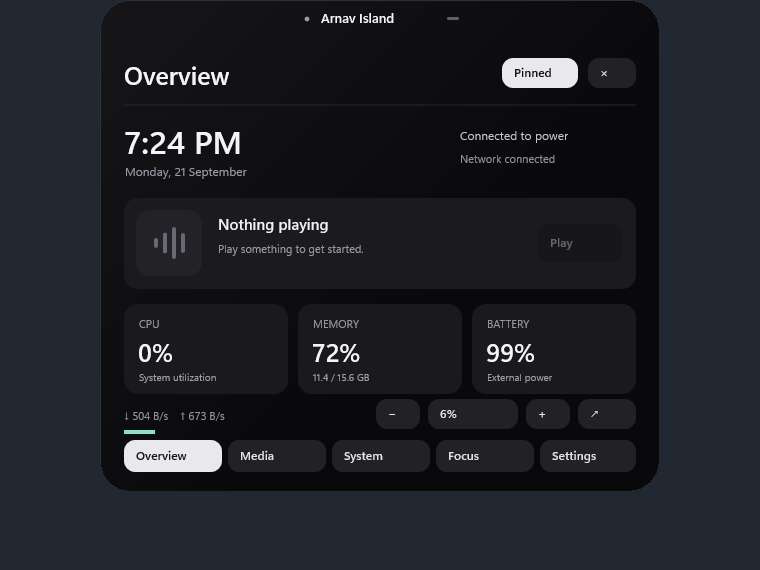
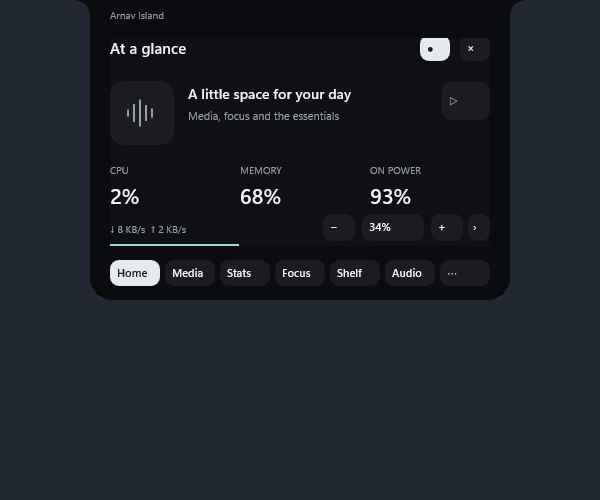
Publish Arnav Island 0.3 preview documentation and reviewed native UI

diff --git a/QUICK_START.md b/QUICK_START.md
@@ -1,13 +1,16 @@
-# Arnav Island quick start
+# Quick start
 
-Windows 11, x64. Extract the ZIP and run ArnavIsland.exe. No installer, account, admin privileges or runtime download is required. This is an unsigned preview; ordinary Windows reputation checks can appear. Do not disable Windows security.
+1. Extract the ZIP into a folder you intend to keep. Run **ArnavIsland.exe**.
+2. Hover over the top-center island to open it. Click the dot to pin; × or Escape closes it. Right-click opens the tray menu.
+3. Home shows media, CPU, memory, battery and volume. Media uses Windows media sessions; Stats provides real OS counters; Focus includes 25-minute focus, 5-minute break and stopwatch.
+4. Drag a file or text onto the island to open Shelf. Drag a shelf row back out. Transfers are copy-only. Scroll to reach additional rows; Clear forgets references. Quit clears the shelf.
+5. Audio lists active Windows outputs. Choose one to switch, or use Windows sound settings. Direct switching is optional compatibility behavior, configurable under Preferences → Activities.
+6. The **⋯** view is Preferences. Click the group selector to cycle Behavior, Appearance, Motion, Activities and Advanced. Changes save locally.
+7. Enable or disable **Start at sign-in** in Behavior. This registers the current executable path for your Windows account. If you move the app, toggle it off/on from the new location. The developer-installed copy already has this enabled.
+8. Tab/Shift+Tab select controls after activation; Enter/Space activate; Escape collapses. Animation Lab is available from the right-click menu or Advanced preferences.
 
-Hover: open after a short delay. Leave: close after 650 ms. Pin: keep open. Click the collapsed pill: open and pin. Click the header: collapse. Right-click: menu and Exit. Scroll: adjust system volume. Drag the header: test elastic movement. Click an expanded control to use it; Tab / Shift+Tab and Enter / Space navigate and invoke controls after activation; Escape closes.
+Settings: `%LOCALAPPDATA%\ArnavIsland\settings.nexus`. Logs: same folder, `events.log`. No user media text, file paths or clipboard content are logged. The legacy Nexus settings are migrated by copy.
 
-Overview, Media, System, Focus and Settings are available in the bottom navigation. The Media layout button cycles Auto / Music / Video. Some browsers do not identify music versus video correctly, so manual selection is available. Thumbnails, timeline and transport controls depend on what the player shares with Windows.
+Artwork appears only when Windows media metadata provides it. Use Media's Auto/Music/Video selector for ambiguous browser sessions. Play/previous/next are disabled when the player does not advertise the capability. The app does not suppress the normal Windows volume flyout.
 
-Settings save automatically to %LOCALAPPDATA%\ArnavIsland\settings.nexus. Existing NexusIsland preferences migrate by copy on first launch. Old files are not deleted. Logs contain diagnostic event names, never media titles or artwork. Open or clear logs from the right-click menu. Timers are in-memory and do not survive exiting the app.
-
-There is no automatic startup, updater, telemetry upload, screen recording in normal use, arbitrary plugin loading or driver. The System view reports supported OS counters, not guessed GPU temperatures or fans. Monitoring sleeps while the relevant views are closed.
-
-Preview limits: custom island controls do not yet expose a complete screen-reader tree; high contrast, text scaling, mixed-DPI displays, high refresh, GPU-loss recovery and long-duration stability need further validation. A small conservative input envelope exists while the body is moving. Use the tray menu to exit if anything looks wrong; this app does not patch or inject into Windows.
+Remove sign-in startup before deleting the portable folder. No service, driver or Explorer modification is installed.

diff --git a/RELEASE_NOTES.md b/RELEASE_NOTES.md
@@ -1,20 +1,24 @@
-# Arnav Island v0.2.0-preview.1
+# Arnav Island v0.3.0-preview.1
 
-A redesigned native island with five clean views, configurable hover opening, real system statistics, music/video layouts with Windows media artwork, volume/mute controls and focus timers.
+Smaller, quieter, connected to the display edge.
 
-Download the Windows x64 ZIP, extract it, and run ArnavIsland.exe. No installer or account is required. The executable is unsigned and this is a preview.
+## Changes
+- Top-center curved shoulders; optional right-edge docking.
+- Compact body reduced to 196 × 34 DIPs. Expanded panel is 420 × 300 DIPs.
+- Seven focused views with restrained typography and small controls.
+- One retained artwork visual glides between compact, Home and Media destinations. Album-derived accents are computed off the UI thread.
+- Copy-only OLE file/text shelf with drag-out, deduplication, scroll and clear. Nothing moves or deletes originals.
+- Event-driven audio output enumeration and optional direct switching. Windows sound settings remain available.
+- Charging pulse, compact volume/media/timer information, subtle magnetic hover/press highlight and spring content offset.
+- Dark/light/system themes; scale, width, corner, edge, monitor, offsets, hover/close delays, motion presets, reduced motion, accents, compact activity and glass controls.
+- Per-user sign-in startup, configurable from Preferences → Behavior.
+- Native Windows acrylic is confined to the expanded content interior. Opaque fallback is used when disabled, unavailable, in high contrast or battery saver.
 
-Highlights:
-- Overview, Media, System, Focus and Settings navigation.
-- Hover-to-open, adjustable delay, delayed close and Pin.
-- Player-provided thumbnails, timeline and supported transport buttons; Auto/Music/Video layout selection.
-- CPU/history, RAM, network traffic, disk space, uptime and logical processor count.
-- System volume/mute and direct Windows settings shortcuts.
-- Focus timer, break timer and stopwatch.
-- Settings migration, local logging, native Animation Lab, privacy-safe QA captures and regression tests.
+## Compatibility and scope
+Windows 11 x64. Media artwork depends on what the player exposes through Windows media sessions: protected services and browsers can omit it. No browser scraping, video capture or DRM bypass is used.
 
-Compatibility depends on the media player's Windows SMTC integration. Netflix, JioHotstar, Prime Video, Apple TV and every browser/player combination are not universally supported or individually certified. No scraping is used.
+Direct output switching is an isolated, optional undocumented Windows compatibility interface; it can be disabled in Activities preferences. A failed switch does not claim success, and the Windows sound-settings button remains available. Communications routing is not deliberately changed.
 
-Known preview limits: incomplete screen-reader/high-contrast/text-scale support, unvalidated high refresh and mixed displays, conservative input envelope during motion, no GPU device-loss recovery, no code signing. No hardware temperatures, file shelf, clipboard capture, notification interception, cloud or invasive OEM control.
+Shelf entries live in memory and disappear on exit; file rows preview names, not file contents. Image files can be held as file references; bitmap and virtual cloud-file drag formats are not supported. The island reacts on drag entry, not before the pointer reaches its region.
 
-See the repository report, measured performance records and feature matrix. Future ideas are listed separately from implemented features.
+The preview is unsigned. Full UI Automation/text scaling, high-refresh hardware validation, mixed-DPI hot-plug, long-duration reliability and device-loss recovery remain unfinished. No measured smoothness guarantee or universal player compatibility is claimed.

diff --git a/FUTURE_IDEAS.md b/FUTURE_IDEAS.md
@@ -1,22 +1,18 @@
-# Future premium features
+# Next design candidates
 
-These are suggestions, not implemented features or promised integrations.
+These are suggestions, not shipped capabilities.
 
-1. **Artwork continuity:** the tiny cover travels into the large media card as one object, retaining velocity if interrupted.
-2. **Compact live activities:** volume, timer and current track occupy a tiny useful strip without opening the full dashboard.
-3. **File shelf:** drop files into the island, see elegant previews and drag references back out safely.
-4. **Quiet charging animation:** a restrained pulse fills a battery shape and settles back into the pill.
-5. **Audio route picker:** switch speakers and headphones from a compact, named device list.
-6. **Smart brightness:** a smooth brightness slider only appears when the display supports safe control.
-7. **Personal dashboard:** reorder a few useful cards instead of filling the island with everything.
-8. **Album accents:** extract a muted color from artwork in the background, with strict contrast limits.
-9. **Magnetic controls:** very subtle pointer attraction and physically animated press/release feedback.
-10. **Acrylic expansion:** a measured native glass layer appears only on expanded surfaces, with a solid fallback.
-11. **Focus progress ring:** a thin ring slowly measures the session; completion resolves into a calm breathing shape.
-12. **Multi-display profiles:** remembered position, scale and behavior for each physical monitor.
-13. **Quick note:** a private, local scratchpad with a clear delete action and no cloud dependency.
-14. **Privacy reveal:** sensitive activity text stays concealed until deliberate interaction.
-15. **Safe activity timeline:** a small, local history of device, battery and timer events, without capturing private content.
-16. **Full accessibility:** proper screen-reader controls, text scaling and excellent keyboard focus movement.
-17. **Performance studio:** measured frame pacing, presentation latency and power cost, clearly separated from estimated counters.
-18. **Signed releases and safe updates:** verified packages, rollback and release notes, without forced background downloads.
+1. **Track handoff** — outgoing and incoming covers briefly share the same space, with readable title changes.
+2. **True drag absorption** — carry a file's shell drag image into the shelf and reverse the motion on drag-out.
+3. **Glance rings** — choose two tiny, readable indicators for timer, battery or daily focus while collapsed.
+4. **Quiet focus scene** — dim nonessential controls during a running timer and reveal them as your pointer approaches.
+5. **Precision scrubber** — a larger timeline appears under the pointer for accurate media seeking, where supported.
+6. **Personal layouts** — reorder views and select which two statistics appear on Home.
+7. **Display profiles** — remember geometry, scale and fullscreen behavior separately for each monitor.
+8. **Accessible narration** — a full UI Automation tree, text-size adaptation and polished high-contrast palette.
+9. **Shelf previews** — decode small image/file thumbnails asynchronously without opening originals or persisting content.
+10. **Motion recorder** — capture a reproducible transition trace and flag stalls using real present statistics.
+11. **Output handoff** — show connection status and confirmation when switching between speakers and headphones.
+12. **Session continuity** — restore chosen timers and layouts after restart, with explicit shelf-persistence consent.
+13. **Intent-aware hover** — distinguish a pointer passing through from a deliberate approach before expanding.
+14. **Adaptive density** — condense secondary text gracefully as panel width changes instead of clipping labels.

diff --git a/README.md b/README.md
@@ -1,23 +1,25 @@
 # Arnav Island
 
-A clean, native Windows 11 island for media, useful system statistics and focus.
+A small, local Windows 11 island with smooth native motion and a curved connection to the display edge.
 
-**[Download the Windows x64 preview](https://github.com/Arnav-Dugad/arnav-island/releases)**
+[Download v0.3.0-preview.1 for Windows x64](https://github.com/Arnav-Dugad/arnav-island/releases/tag/v0.3.0-preview.1)
 
-![Arnav Island Overview](images/overview.png)
+![Arnav Island dashboard](images/overview.png)
 
-Extract the ZIP and run **ArnavIsland.exe**. Hover to open, leave to close, or pin it. Settings control hover delay, motion and fullscreen behavior. No account, cloud backend, subscription, paid API or installer is required.
+Hover to open. Browse Media, Stats, Focus, Shelf, Audio and Preferences. Hold files or text temporarily, switch audio outputs, keep track of timers, and customize the shape, theme, motion and startup behavior.
 
-Five views:
-- **Overview:** clock/date, current media, battery/power, CPU, memory, network and volume/mute.
-- **Media:** player-provided thumbnails and controls, timeline, separate music/video layouts with a manual override.
-- **System:** CPU history, RAM, disk space, upload/download, uptime and links to Windows settings.
-- **Focus:** 25-minute focus timer, 5-minute break and stopwatch.
-- **Settings:** hover preferences, five spring presets, reduced motion and fullscreen hiding.
+![Compact island](images/compact.png)
 
-The app is native C++23 with Win32, DirectComposition, Direct2D and DirectWrite. Geometry is animated by the Windows compositor. Monitoring sleeps when the relevant panels are closed. Private media stays in memory and is never uploaded or logged.
+Extract the ZIP and launch ArnavIsland.exe. No account, cloud, subscription, browser engine, driver or administrator access is required. This is an unsigned preview.
 
-**This is an unsigned preview.** Complete screen-reader/high-contrast support, mixed-DPI and high-refresh acceptance, device-loss recovery and multi-day reliability remain unfinished. Media integrations depend on what the player exposes to Windows; universal support for Netflix, JioHotstar, Prime Video, Apple TV or every browser is not claimed. The screenshots intentionally show an empty media state for privacy.
+- Small top-center dock; optional right-edge placement.
+- Persistent artwork glide, compact activities, physical hover feedback and charging pulse.
+- Native acrylic inside expanded panels with opaque fallback.
+- Five preference groups, sign-in startup toggle, dark/light/system themes and configurable hover.
+- Real Windows media, battery, CPU/RAM/network statistics and output devices.
 
-Read [Quick Start](QUICK_START.md), [Release notes](RELEASE_NOTES.md), and [Future ideas](FUTURE_IDEAS.md). This repository hosts portable downloads, release notes and the public roadmap.
+[Quick start](QUICK_START.md) · [Release notes and limitations](RELEASE_NOTES.md) · [Future ideas](FUTURE_IDEAS.md)
 
+Media artwork depends on what Windows receives from the player. Direct audio switching is an optional compatibility interface. File shelf entries are in-memory references and text, copy-only; file-content previews are not included. Full accessibility, mixed-DPI/high-refresh validation and long-duration reliability remain unfinished. No complete feature or performance guarantee is made.
+
+This public repository hosts releases and user documentation. The development repository remains private.

diff --git a/THIRD_PARTY_NOTICES.md b/THIRD_PARTY_NOTICES.md
@@ -27,3 +27,7 @@ ARISING FROM, OUT OF OR IN CONNECTION WITH THE SOFTWARE OR THE USE OR OTHER
 DEALINGS IN THE SOFTWARE.
 
 G-Helper and LibreHardwareMonitor were researched only; neither is a dependency.
+
+The optional audio compatibility ABI slot order was cross-checked against EarTrumpet's public IPolicyConfig declaration:
+https://github.com/File-New-Project/EarTrumpet/blob/master/EarTrumpet/Interop/MMDeviceAPI/IPolicyConfig.cs
+The minimal slot-only interface here is independently authored; no EarTrumpet implementation or binary is included. EarTrumpet has its own license (including exclusions); it is not described as an unrestricted MIT dependency. UsageNotch was a visual reference only and is not bundled.
